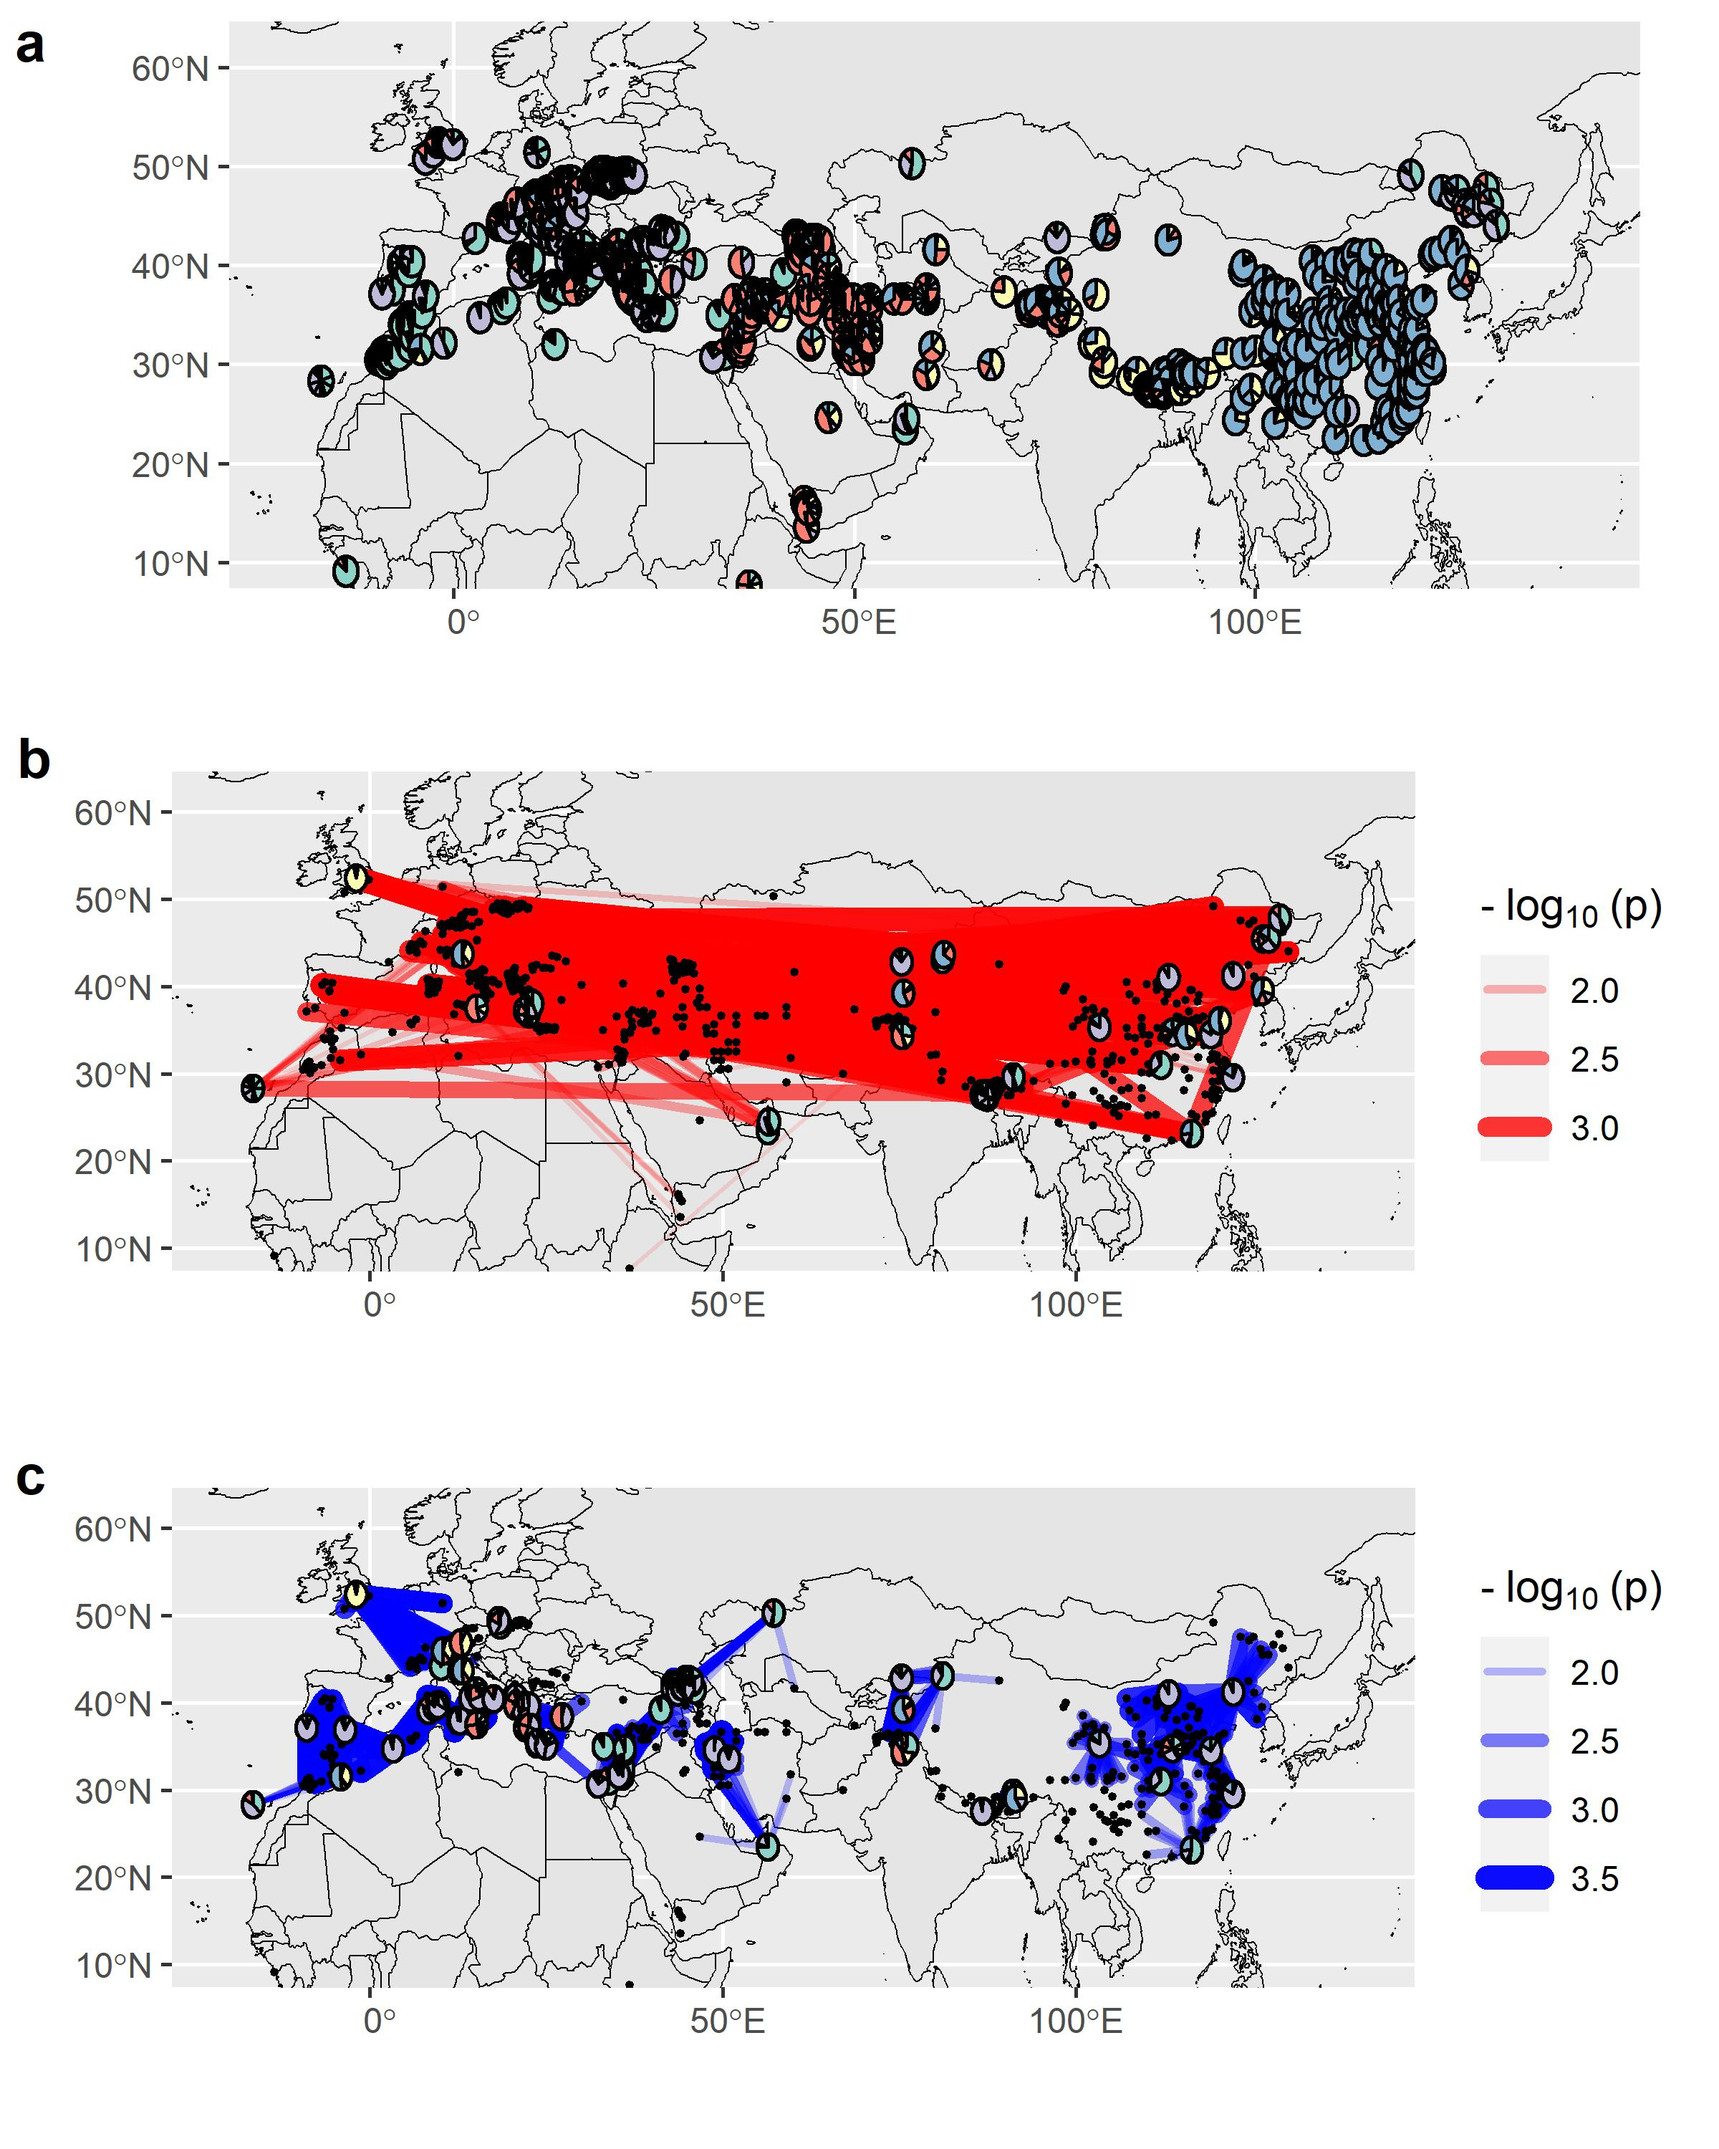
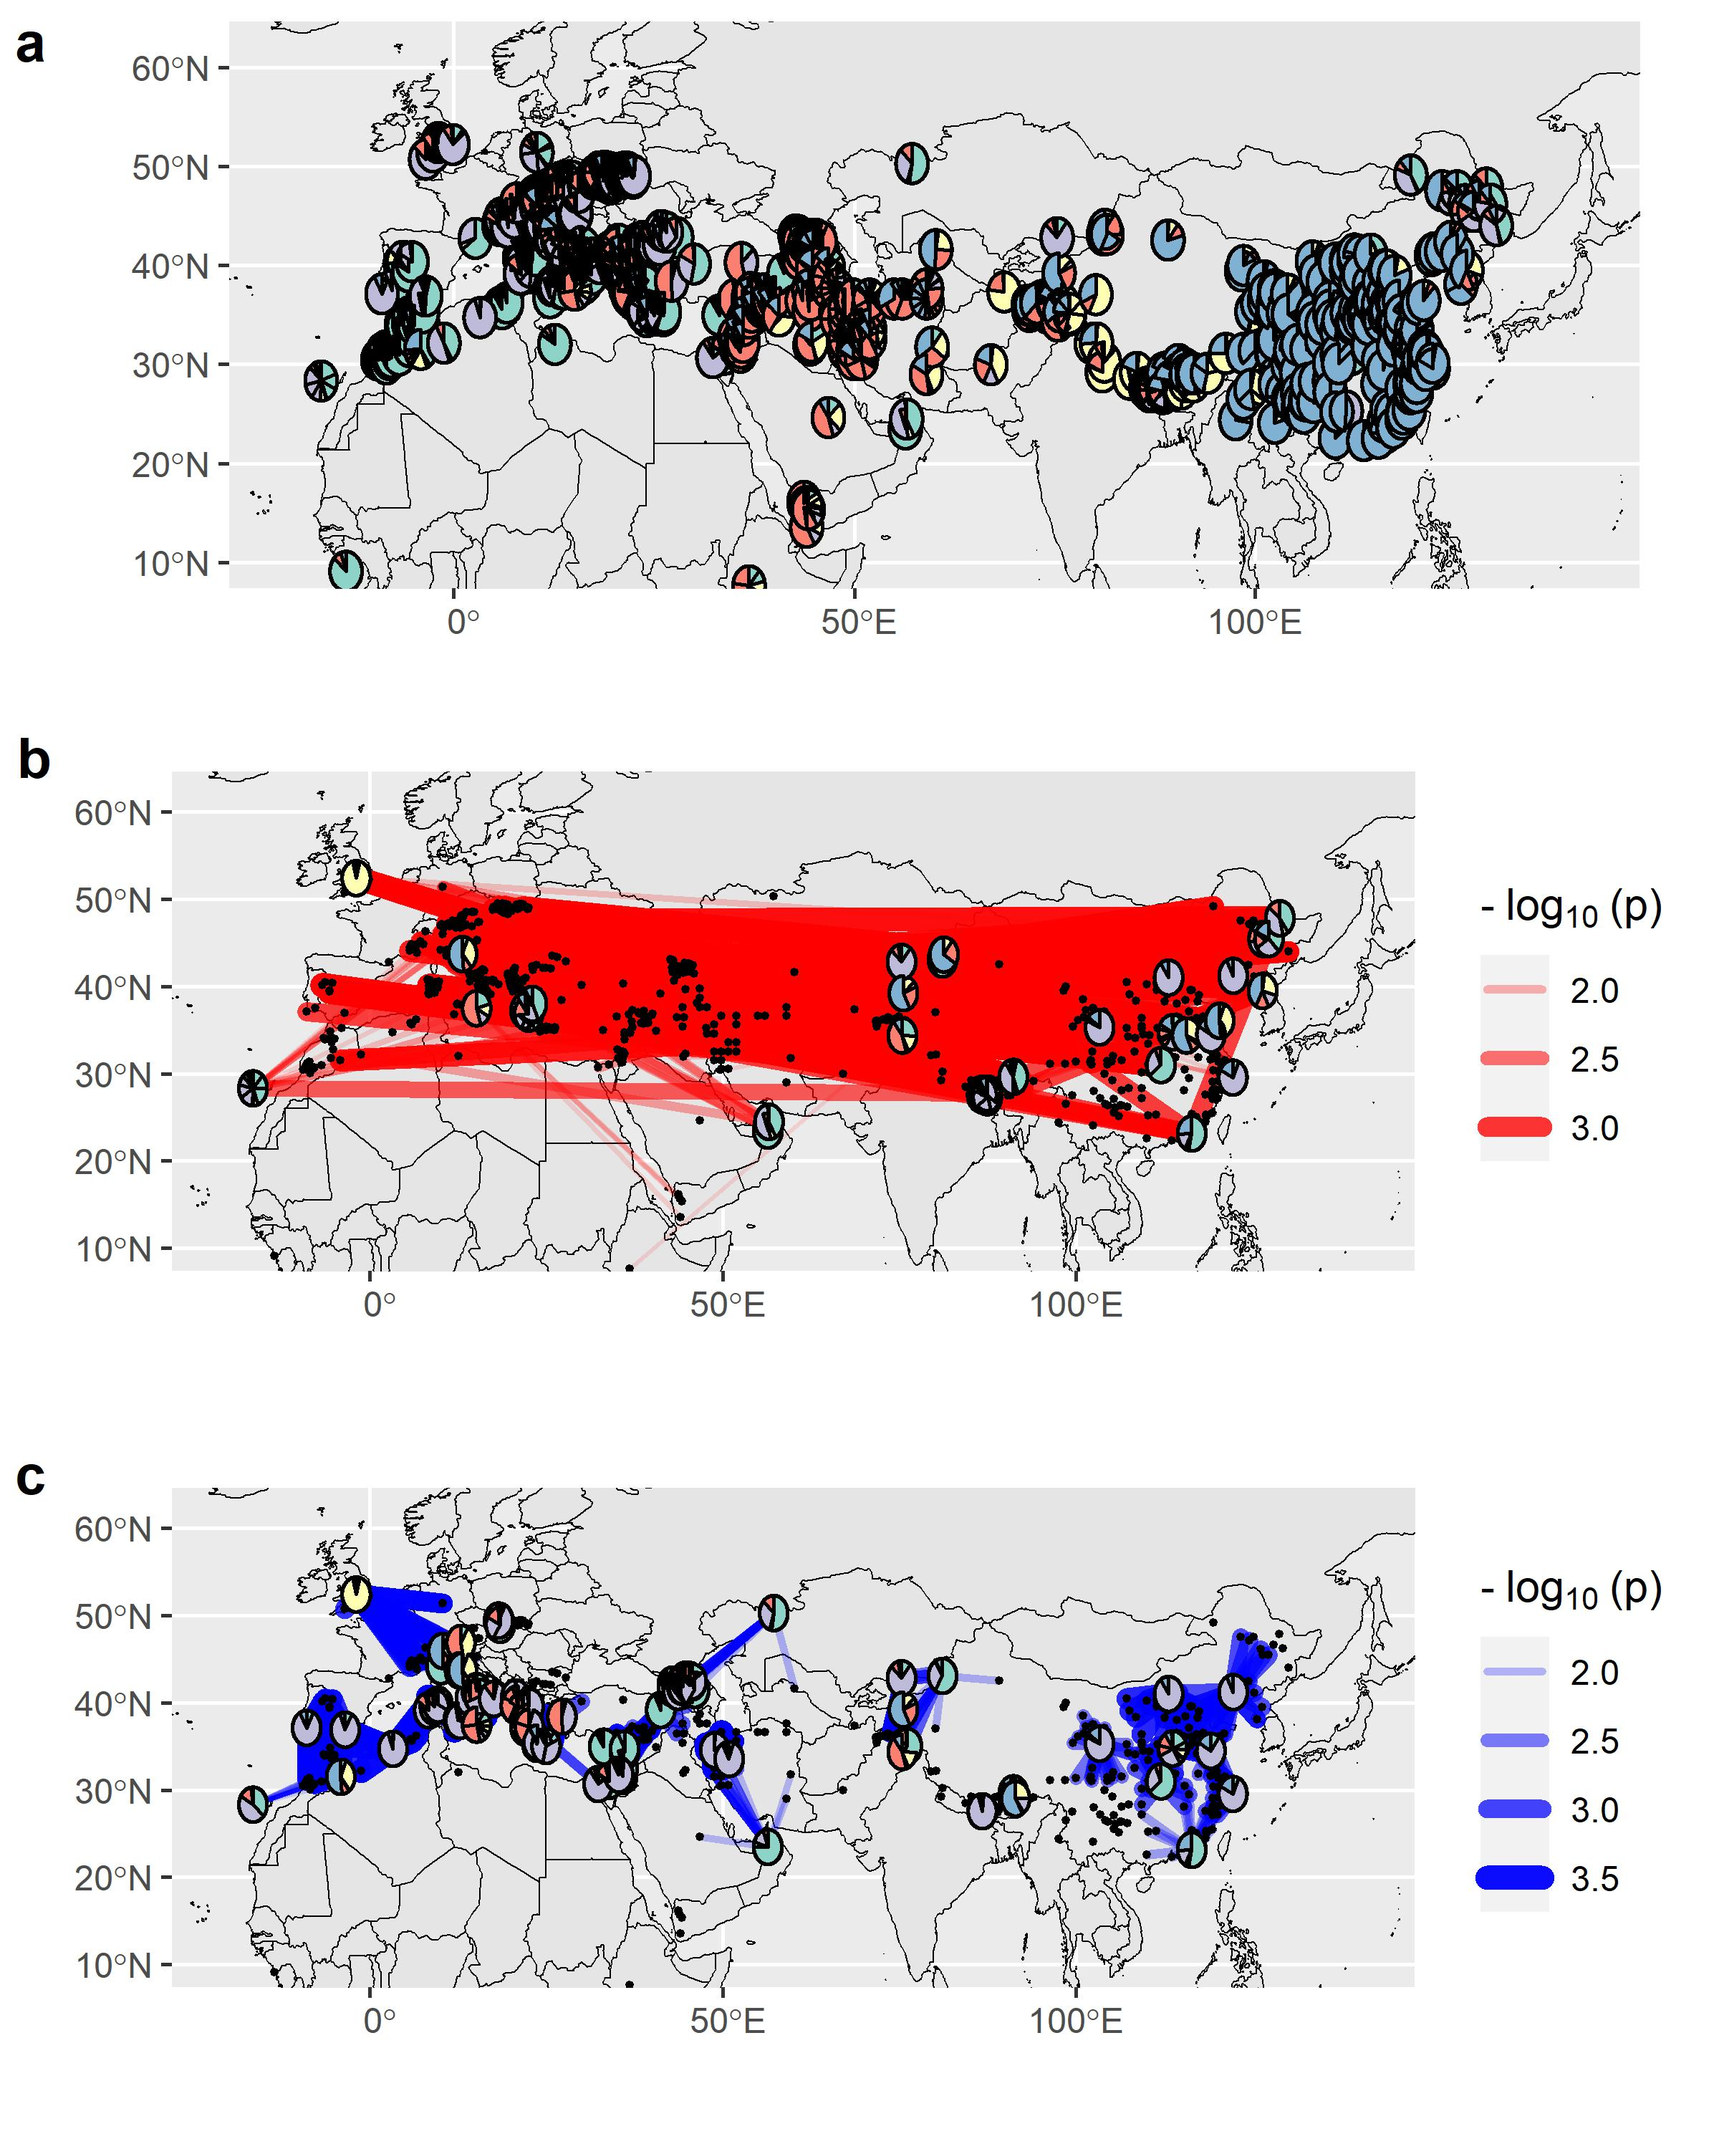
minor update figs and paper.md

diff --git a/paper/paper.md b/paper/paper.md
@@ -123,11 +123,11 @@ plot_ggoutlier(ggoutlier_res = ggoutlier_result,
                select_ylim = c(10,62),
                plot_xlim = c(-20,140),
                plot_ylim = c(10,62),
-               pie_r_scale = 1.2,
-               map_resolution = "course")
+               pie_r_scale = 2,
+               map_resolution = "medium")
                
 ## Figure 2: highlight outliers in UK with `select_xlim` and `select_ylim`
-plot_ggoutlier(ggoutlier_res = compositeknn_res,
+plot_ggoutlier(ggoutlier_res = ggoutlier_result,
                gen_coord = ipk_anc_coef,
                geo_coord = ipk_geo_coord,
                p_thres = pthres,
@@ -136,9 +136,10 @@ plot_ggoutlier(ggoutlier_res = compositeknn_res,
                select_ylim = c(47,61),
                plot_xlim = c(-20,140),
                plot_ylim = c(10,62),
-               pie_r_scale = 1.2,
-               map_resolution = "course",
-               add_benchmark_graph = F)
+               pie_r_scale = 2,
+               map_resolution = "medium",
+               add_benchmark_graph = F,
+               plot_labels = NA)
 ```
 
 # Availability
